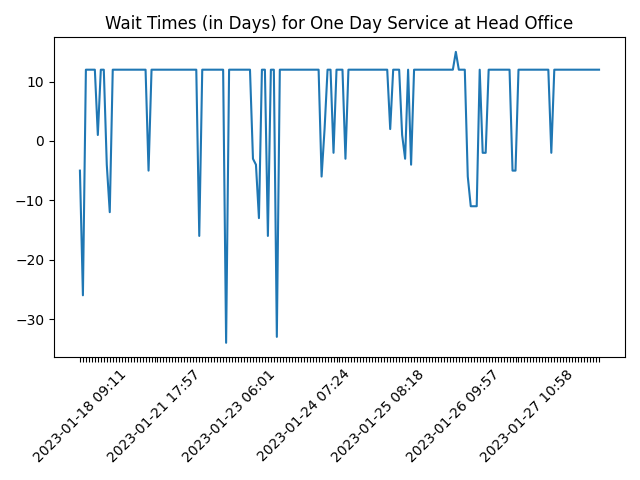
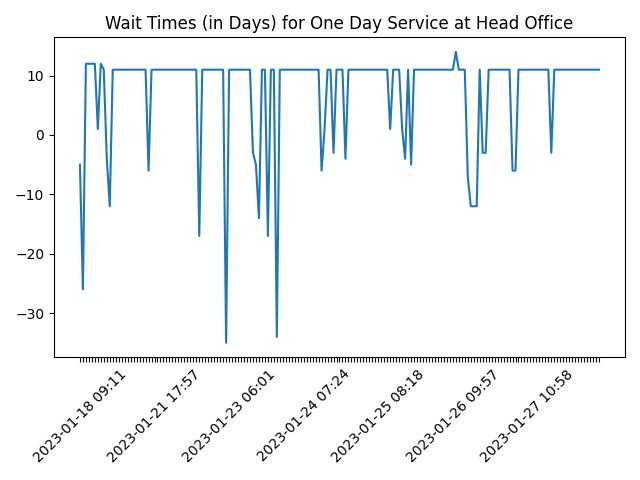
Updated data Mon Feb 27 06:31:40 UTC 2023

diff --git a/README.md b/README.md
@@ -1,5 +1,5 @@
 # Passport Application Reservation System - Availability Report
 
-*As of February 27, 2023 (06:16 AM)*
+*As of February 27, 2023 (12:01 PM)*
 
 Data Source: [Passport Application Reservation System](https://eservices.immigration.gov.lk:8443/appointment/pages/reservationApplication.xhtml)

diff --git a/summary.md b/summary.md
@@ -2,7 +2,7 @@
 
 Of the data from the Passport Application Reservation System of the Sri Lanka Department of Immigration and Emigration.
 
-*As of 2023-02-27 06:16:02*
+*As of 2023-02-27 12:01:38*
 
 ![Wait Time Chart](summary.wait_time_chart.png)
 
